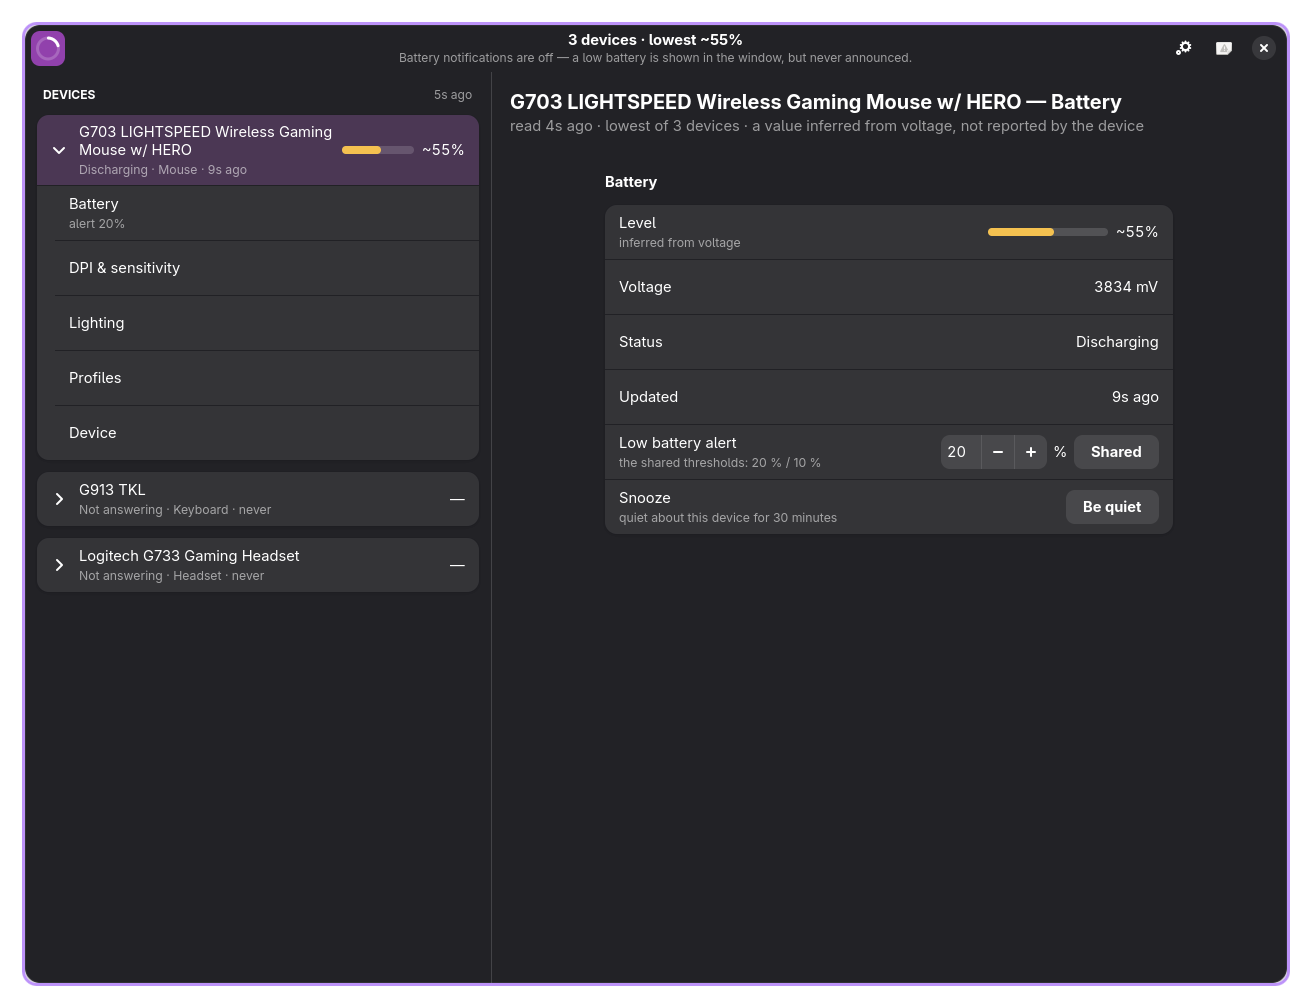
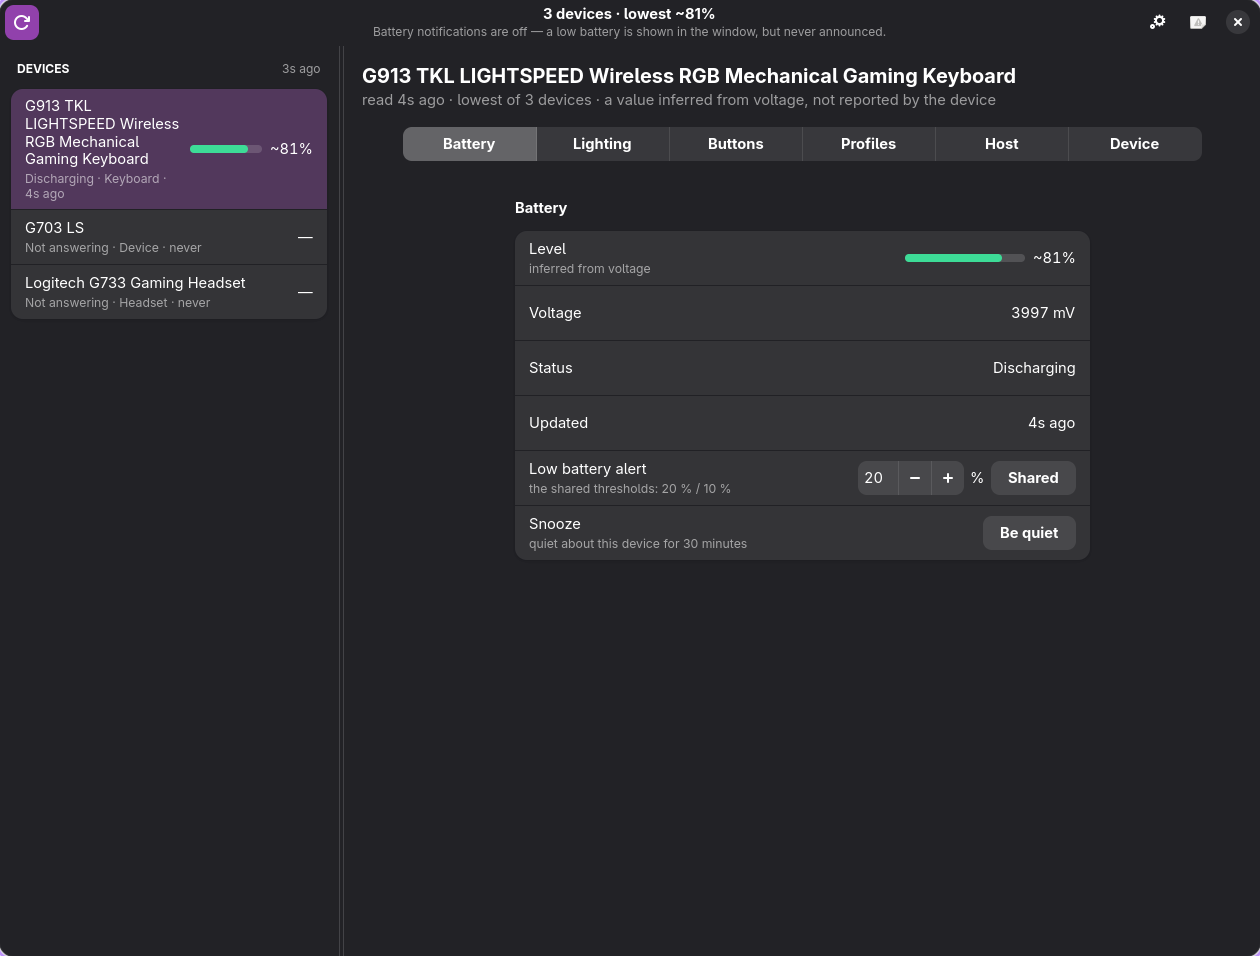
docs: the window as it now is, and a front-page capture to match
The README described the rail the way it used to be — pages folded out under a device — and the
front-page image was a capture of that window, so both were about a shape the app no longer has.

* `README.md` — the image caption and the layout bullet describe the rail as a fixed, draggable
  column and the pages as a tab strip the device's own feature set decides; the promise that the
  window keeps redrawing without moving the user is stated where the layout is.
* `docs/screenshot.png` — a fresh capture: three devices in the rail (a keyboard at 81 %, a mouse
  and a headset that are not answering), six tabs for the keyboard, and the Battery page. One
  device genuinely not answering is the honest picture — it is what the caption claims the window
  does.

diff --git a/README.md b/README.md
@@ -14,10 +14,10 @@ Embr shows what every attached Logitech mouse, keyboard and headset is doing —
 charge state and how it is connected — in a small window, a tray icon and optional desktop
 notifications.
 
-![Embr's window: a rail of devices with their battery levels, and the selected device's pages](docs/screenshot.png)
+![Embr's window: a rail of devices with their battery levels, and the open device's pages as tabs](docs/screenshot.png)
 
-*It uses the width it is given: the rail is the devices, and the page beside it is the subject.
-A device that has stopped answering says so, rather than showing a stale number.*
+*The rail is the devices, at a width of its own; the open device's pages are tabs across the pane
+beside it. A device that has stopped answering says so, rather than showing a stale number.*
 
 ## How this was written
 
@@ -41,10 +41,13 @@ Practically: read it before you run it, and report what breaks. HID++ has no rea
   switched-off headset does not count; a percentage worked out from voltage is marked `~`, and a
   percentage a device reports itself always wins.
 * **Worst battery first**, with the age of each reading beside it.
-* **A window that uses the width it is given.** Dragged wider, the device list stops at a
-  comfortable width and the detail card takes the rest; the settings page runs its rows the full
-  width with each control at the far right, the way Solaar looks when it is maximised. Narrow
-  enough and the two panes start to compete — below about 700 px they cannot both fit.
+* **A window that uses the width it is given.** The device list is a column of its own — 340 px,
+  and a divider you can drag — so a long device name wraps instead of shoving the pages aside, and
+  the pane beside it takes everything left. The open device's pages are tabs across the top of that
+  pane, and they are the pages the device itself advertises: a keyboard with no DPI feature is never
+  offered a DPI tab. The settings page runs its rows the full width with each control at the far
+  right, the way Solaar looks when it is maximised. Everything keeps redrawing while readings
+  arrive, but never *moves* you: the tab you picked stays picked, per device.
 * **A cadence that matches what you are doing.** While the window is open the devices are read
   at the interval you choose; with the window closed it backs off to no more than once every two
   minutes, and reads everything the moment the window comes back. **Rescan** reads now, and gives
